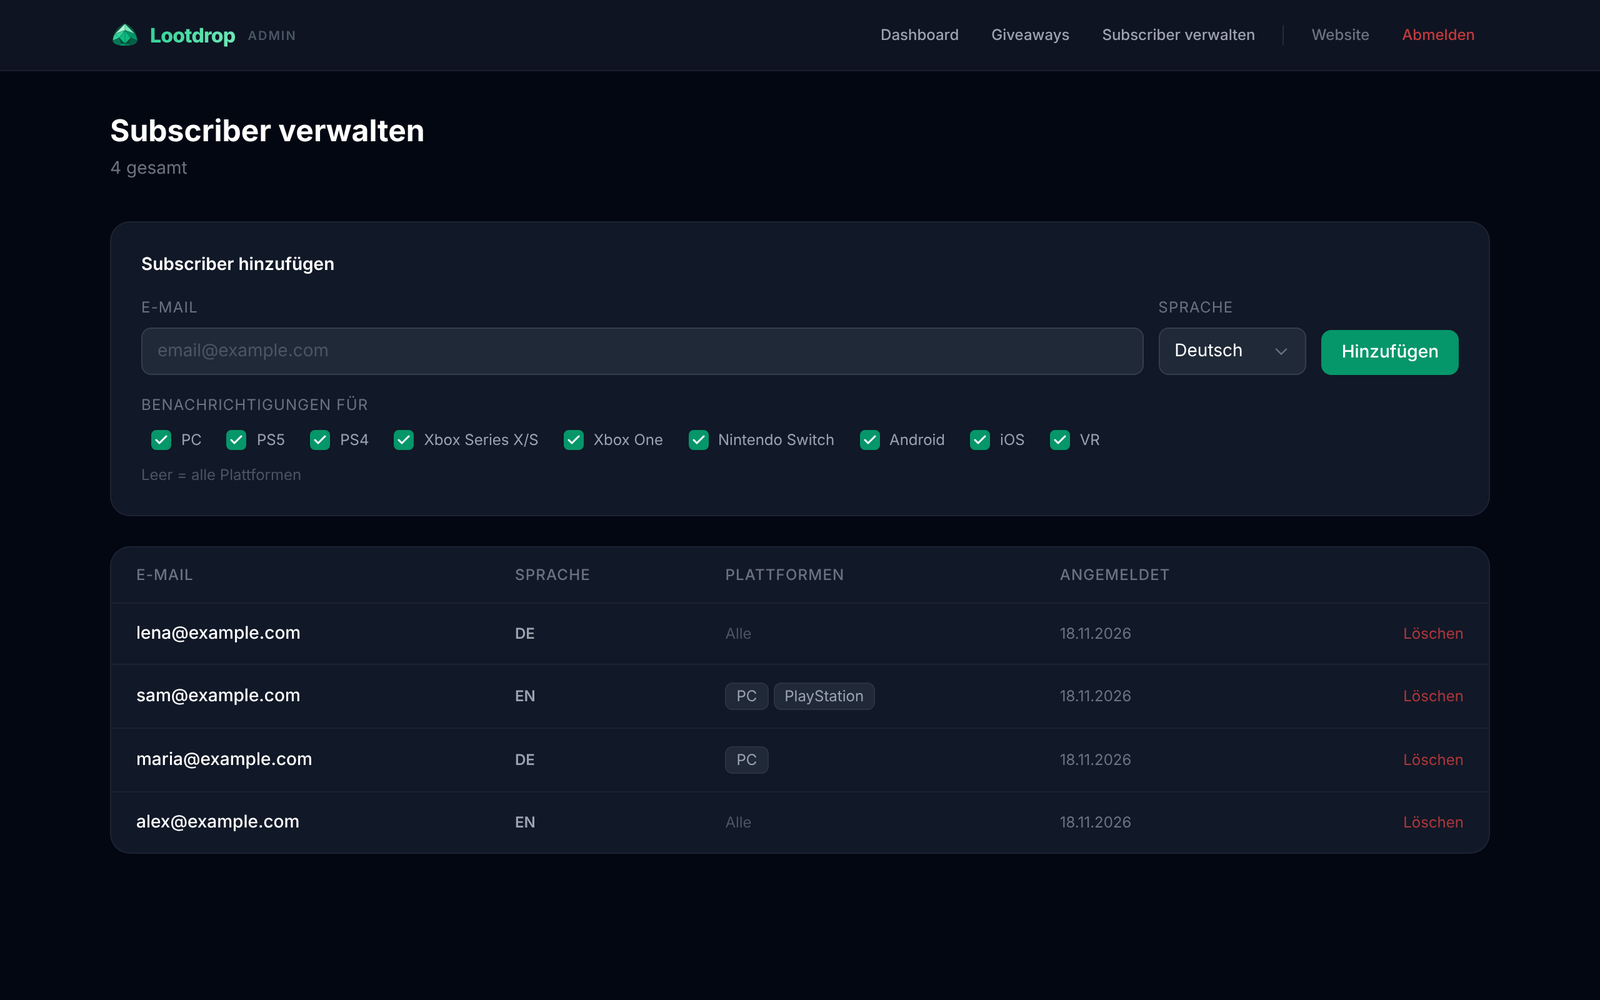
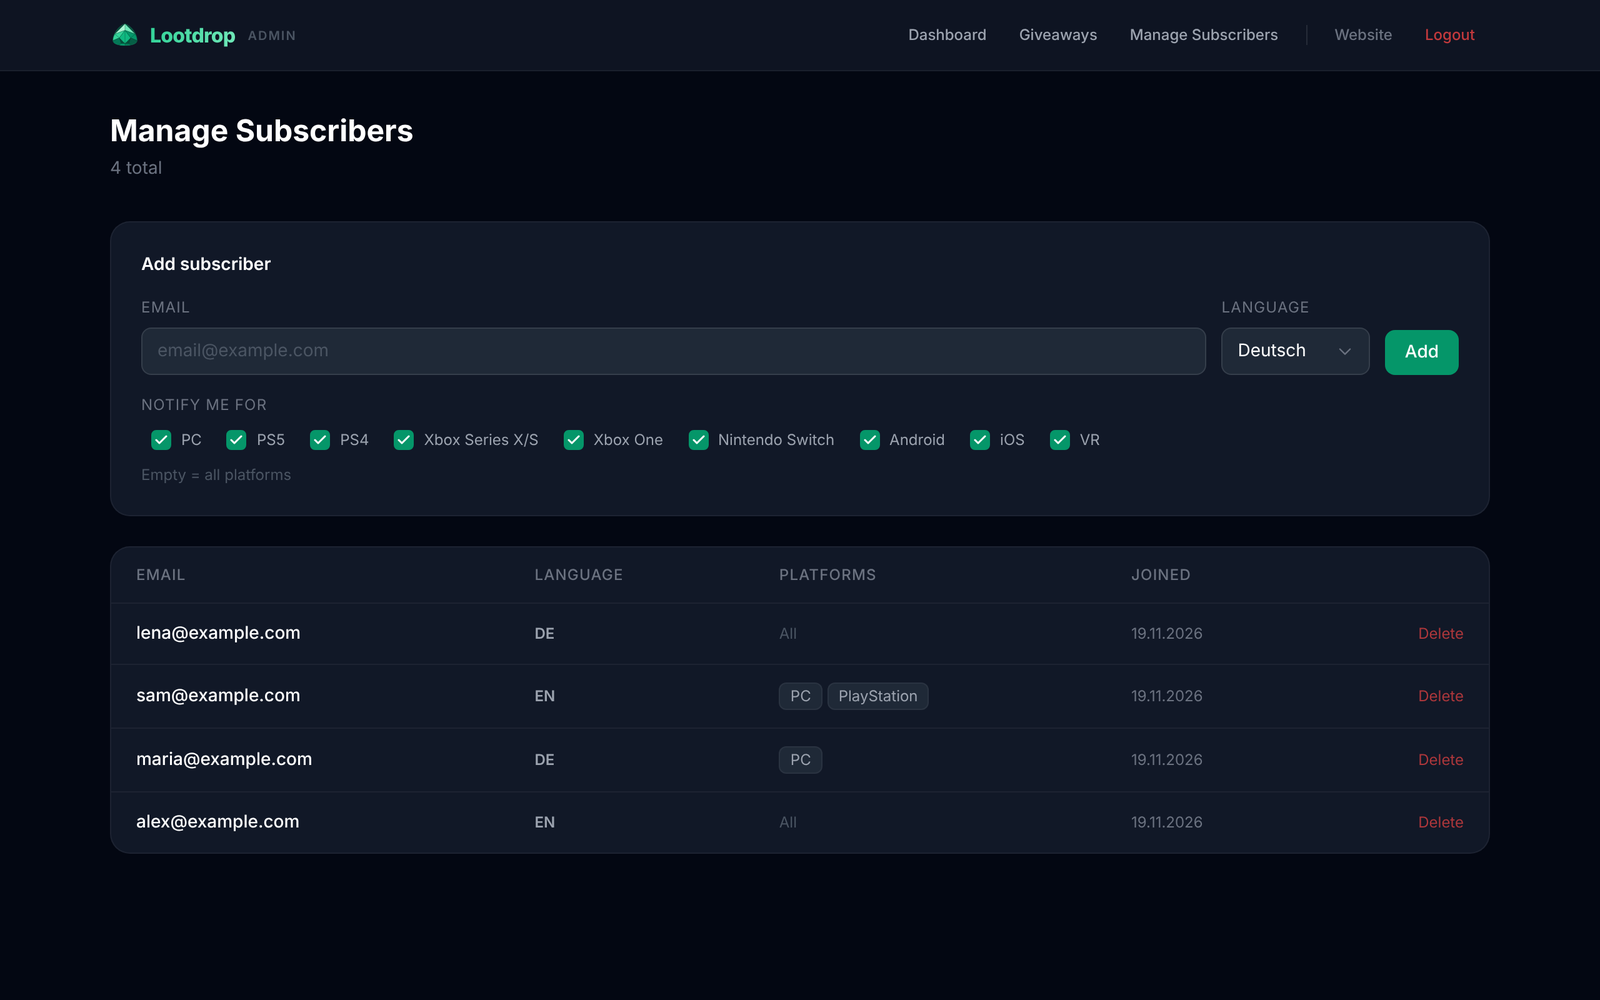
docs: Screenshots der englischen Oberfläche
Claude-Session: https://claude.ai/code/session_01DJT5gBD531oeuKVxWb3oq3

diff --git a/README.md b/README.md
@@ -26,7 +26,7 @@ Lootdrop collects free game giveaways from the [GamerPower API](https://www.game
 
 </details>
 
-The screenshots show the German interface with demo data. Switch to English with the DE/EN toggle.
+The screenshots show demo data. The interface is available in English and German (DE/EN toggle).
 
 ## Stack
 
